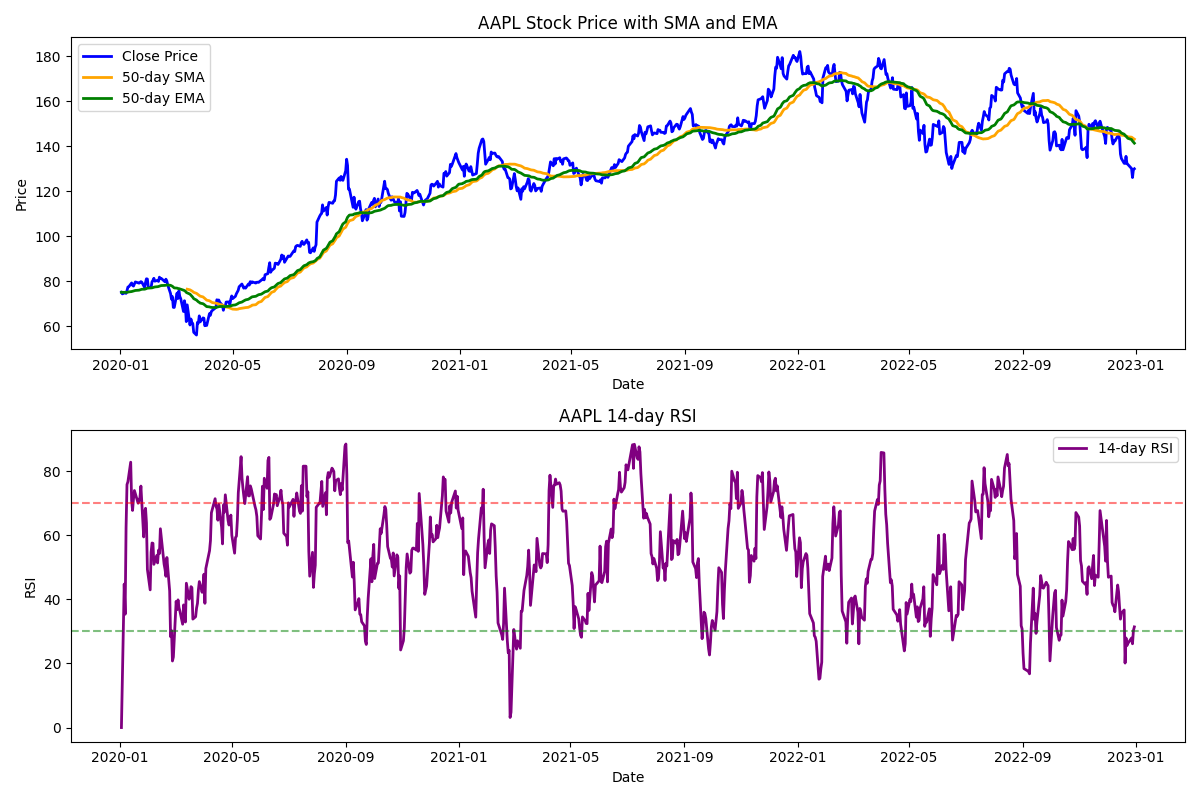
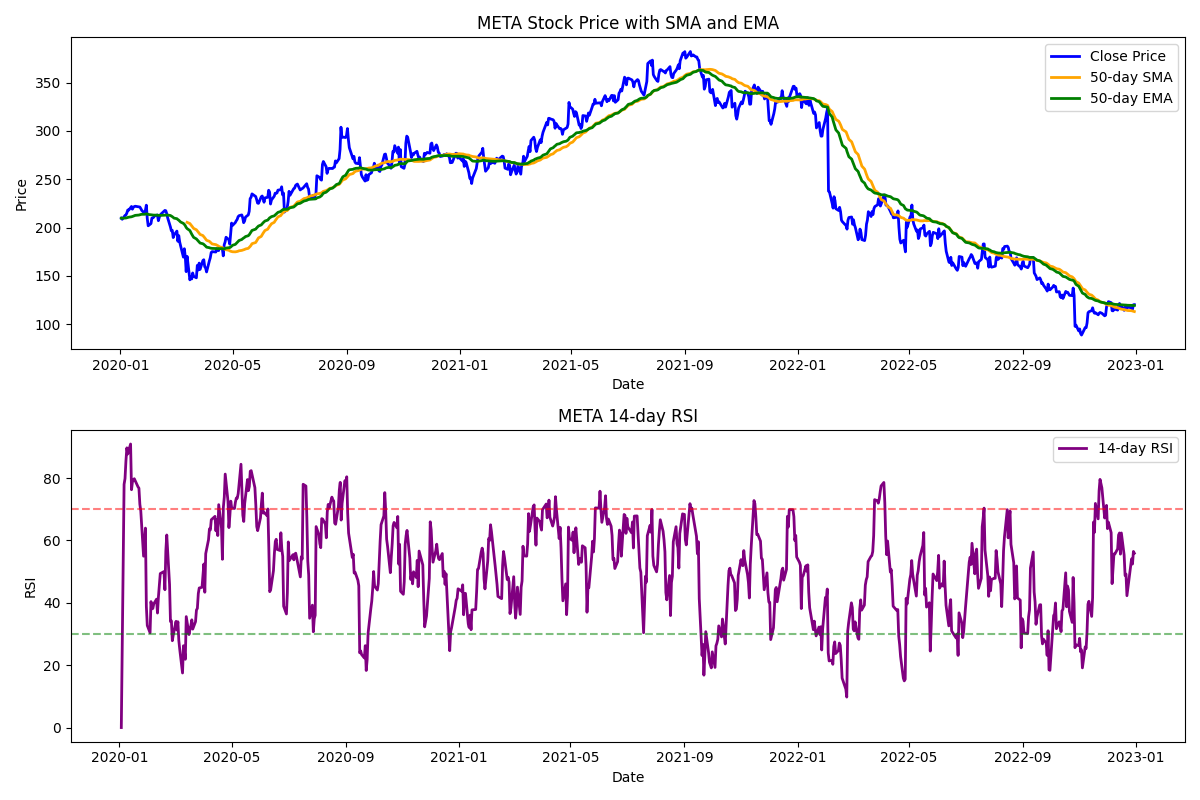
added bollinger bands function and visualizations for stock plots and bollinger bands.

diff --git a/test.py b/test.py
@@ -3,7 +3,7 @@ import pandas as pd
 import matplotlib.pyplot as plt
 
 # Fetch Stock Data
-ticker = 'AAPL'
+ticker = 'META'
 start_date = '2020-01-01'
 end_date = '2023-01-01'
 stock_data = yf.download(ticker, start=start_date, end=end_date)
@@ -29,6 +29,78 @@ def calculate_rsi(data, window=14):
 stock_data['SMA_50'] = calculate_sma(stock_data, 50)
 stock_data['EMA_50'] = calculate_ema(stock_data, 50)
 stock_data['RSI_14'] = calculate_rsi(stock_data, 14)
+
+# Step 4: Generate Buy/Sell Signals
+def generate_signals(data):
+    buy_signals = []
+    sell_signals = []
+    
+    for i in range(len(data)):
+        close_price = data['Close'].iloc[i]
+        sma_value = data['SMA_50'].iloc[i]
+        rsi_value = data['RSI_14'].iloc[i]
+
+        if (close_price >= sma_value) and (rsi_value < 30):
+            buy_signals.append(close_price)
+            sell_signals.append(float('nan'))  # No sell signal
+        elif (close_price <= sma_value) and (rsi_value > 70):
+            sell_signals.append(close_price)
+            buy_signals.append(float('nan'))  # No buy signal
+        else:
+            buy_signals.append(float('nan'))  # No buy signal
+            sell_signals.append(float('nan'))  # No sell signal
+
+        # Debugging output
+        print(f"Date: {data.index[i]}, Close: {close_price}, SMA: {sma_value}, RSI: {rsi_value}")
+
+    return pd.Series(buy_signals, index=data.index), pd.Series(sell_signals, index=data.index)
+
+# Generate signals and add to the DataFrame
+stock_data['Buy_Signal'], stock_data['Sell_Signal'] = generate_signals(stock_data)
+
+# Display the last few rows to check the signals
+print(stock_data[['Close', 'SMA_50', 'RSI_14', 'Buy_Signal', 'Sell_Signal']].tail(10))
+
+
+# Step 5: Calculate Bollinger Bands
+def calculate_bollinger_bands(data, window=20):
+    # Calculate the middle band (SMA)
+    data['Middle_Band'] = data['Close'].rolling(window=window).mean()
+    # Calculate the standard deviation
+    data['Std_Dev'] = data['Close'].rolling(window=window).std()
+    # Calculate upper and lower bands
+    data['Upper_Band'] = data['Middle_Band'] + (2 * data['Std_Dev'])
+    data['Lower_Band'] = data['Middle_Band'] - (2 * data['Std_Dev'])
+
+# Add Bollinger Bands to the stock data
+calculate_bollinger_bands(stock_data)
+
+# Display the last few rows to check the Bollinger Bands
+print(stock_data[['Close', 'Middle_Band', 'Upper_Band', 'Lower_Band']].tail(10))
+
+
+# Step 6: Visualize the Stock Price and Bollinger Bands
+def plot_bollinger_bands(data):
+    plt.figure(figsize=(14, 7))
+    plt.plot(data['Close'], label='Close Price', color='blue', alpha=0.5)
+    plt.plot(data['Middle_Band'], label='Middle Band (SMA)', color='orange', linestyle='--', alpha=0.7)
+    plt.plot(data['Upper_Band'], label='Upper Band', color='green', linestyle='--', alpha=0.7)
+    plt.plot(data['Lower_Band'], label='Lower Band', color='red', linestyle='--', alpha=0.7)
+
+    plt.fill_between(data.index, data['Lower_Band'], data['Upper_Band'], color='lightgrey', alpha=0.5)
+    plt.title('Bollinger Bands')
+    plt.xlabel('Date')
+    plt.ylabel('Price')
+    plt.legend()
+    plt.grid()
+    plt.tight_layout()
+
+    # Save the plot as a PNG image
+    plt.savefig('bollinger_bands.png')
+    plt.show()
+
+# Call the plotting function
+plot_bollinger_bands(stock_data)
 
 # Visualization
 fig, (ax1, ax2) = plt.subplots(2, figsize=(12, 8))
